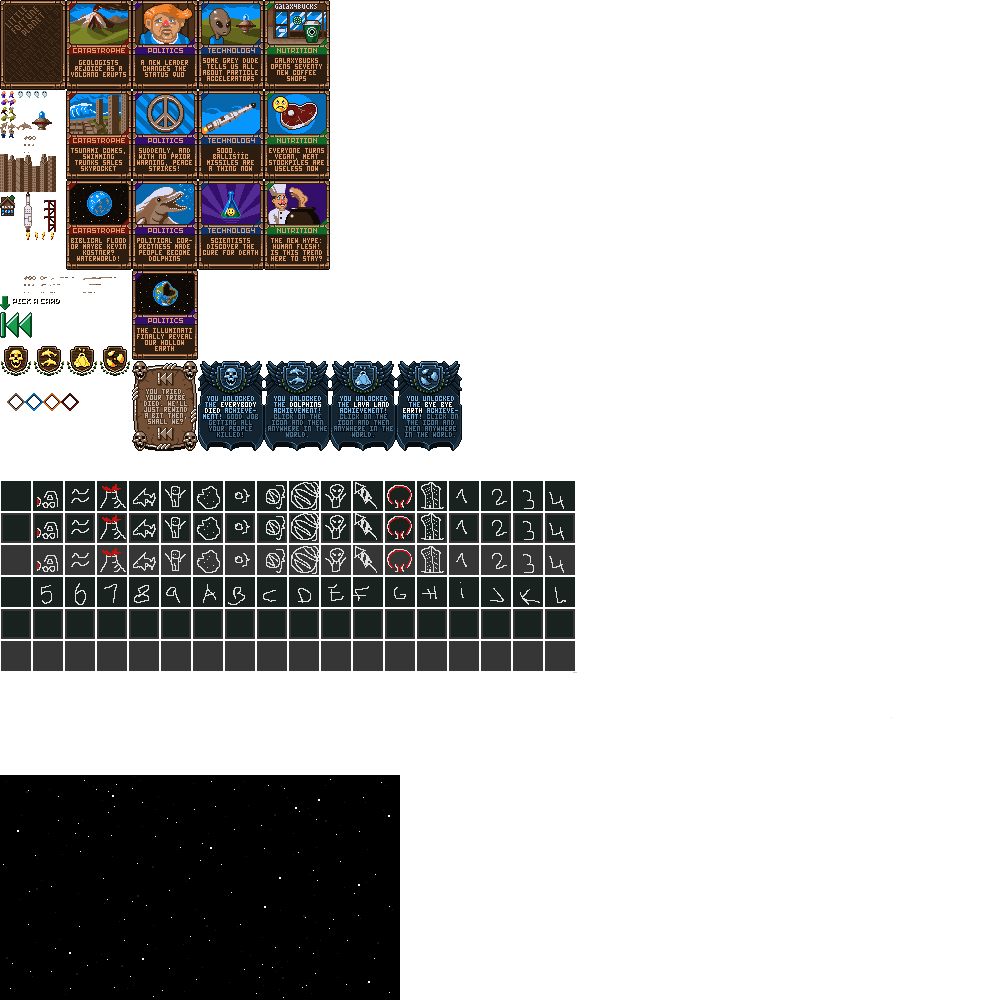
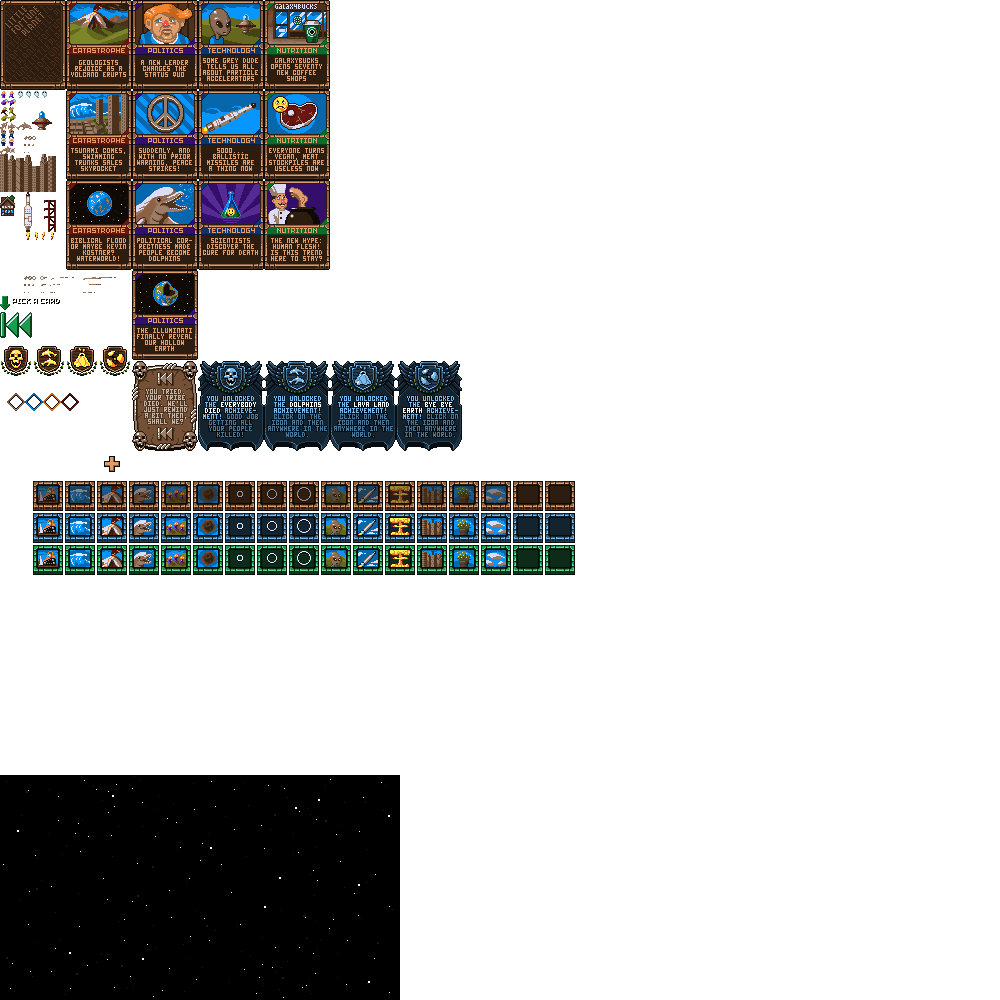
Draw entities one at a time.

Changed region(s): [[0.0, 0.465, 0.589, 0.682], [0.0, 0.124, 0.031, 0.155]]

diff --git a/core/src/net/mostlyoriginal/game/system/DrawingSystem.java b/core/src/net/mostlyoriginal/game/system/DrawingSystem.java
@@ -5,11 +5,14 @@ import com.artemis.E;
 import com.artemis.managers.TagManager;
 import com.badlogic.gdx.Gdx;
 import com.badlogic.gdx.Input;
+import com.badlogic.gdx.math.MathUtils;
 import com.badlogic.gdx.math.Vector2;
 import net.mostlyoriginal.game.component.G;
 import net.mostlyoriginal.game.component.Planet;
 import net.mostlyoriginal.game.component.PlanetCell;
 import net.mostlyoriginal.game.system.common.FluidIteratingSystem;
+import net.mostlyoriginal.game.system.dilemma.CardScriptSystem;
+import net.mostlyoriginal.game.system.planet.PlanetCreationSystem;
 import net.mostlyoriginal.game.system.planet.PlanetRenderGravityDebugSystem;
 import net.mostlyoriginal.game.system.planet.PlanetRenderTemperatureDebugSystem;
 import net.mostlyoriginal.game.system.planet.PlanetSimulationSystem;
@@ -30,18 +33,31 @@ public class DrawingSystem extends FluidIteratingSystem {
     private PlanetRenderGravityDebugSystem planetRenderGravityDebugSystem;
     private PlanetRenderTemperatureDebugSystem planetRenderTemperatureDebugSystem;
     private boolean middleMousePressed;
-    private int size=1;
+    private int size = 1;
+    private EntityType entityType;
+    private CardScriptSystem cardScriptSystem;
+    private PlanetCreationSystem planetCreationSystem;
 
     public DrawingSystem() {
         super(Aspect.all(Planet.class));
     }
 
     private boolean leftMousePressed;
+    private boolean clickedOnce;
+    private int down = 0;
 
     @Override
     protected void begin() {
         super.begin();
         leftMousePressed = Gdx.input.isButtonPressed(Input.Buttons.LEFT);
+        if (leftMousePressed) {
+            down++;
+            clickedOnce = down++ == 1;
+        } else {
+            clickedOnce = false;
+            down = 0;
+        }
+
         rightMousePressed = Gdx.input.isButtonPressed(Input.Buttons.RIGHT);
         middleMousePressed = Gdx.input.isButtonPressed(Input.Buttons.MIDDLE);
 
@@ -83,8 +99,11 @@ public class DrawingSystem extends FluidIteratingSystem {
     @Override
     protected void process(E e) {
         final E cursor = E.E(tagManager.getEntity("cursor"));
-        if (leftMousePressed && type != null) {
+        if (leftMousePressed && type != null && cursor.posY() > G.TOOL_HEIGHT) {
             draw(e, (int) cursor.posX(), (int) cursor.posY(), size, type);
+        }
+        if (clickedOnce && entityType != null&& cursor.posY() > G.TOOL_HEIGHT) {
+            draw((int) cursor.posX(), (int) cursor.posY(), entityType);
         }
         if (rightMousePressed) {
             stopDrawing();
@@ -95,7 +114,35 @@ public class DrawingSystem extends FluidIteratingSystem {
 
     }
 
+    private void draw(int x, int y, EntityType entityType) {
+        switch (entityType) {
+            case ALIEN:
+                planetCreationSystem.spawnDude(x, y).massInverse(true).alien();
+                break;
+            case ICBM:
+                cardScriptSystem.spawnStructure("icbm", G.LAYER_STRUCTURES_FOREGROUND)
+                        .explosiveYield(MathUtils.random(10, 30)).pos(x, y);
+                break;
+            case SKYSCRAPER:
+                cardScriptSystem.spawnStructure("skyscraper" + MathUtils.random(7), G.LAYER_STRUCTURES_BACKGROUND).pos(x, y);
+                break;
+            case DOLPHIN:
+                E e = planetCreationSystem.spawnDude(x, y);
+                Vector2 gravityVector = v.set(e.planetboundGravity()).rotate(180f);
+                e
+                        .dolphinized()
+                        .physicsVr(1000f)
+                        .physicsVx(gravityVector.x * 100f)
+                        .physicsVy(gravityVector.y * 100f);
+                break;
+            case DUDE:
+                planetCreationSystem.spawnDude(x, y);
+                break;
+        }
+    }
+
     private void stopDrawing() {
+        entityType = null;
         type = null;
         removeDrawingCursor();
     }
@@ -129,7 +176,7 @@ public class DrawingSystem extends FluidIteratingSystem {
                     PlanetCell cell = e.getPlanet().get(x, y);
                     if (cell != null) {
                         cell.type = type;
-                        if ( type == PlanetCell.CellType.STATIC ) {
+                        if (type == PlanetCell.CellType.STATIC) {
                             cell.color = planetSimulationSystem.planet.cellColor[PlanetCell.CellType.STATIC.ordinal()];
                         }
                     }
@@ -138,11 +185,22 @@ public class DrawingSystem extends FluidIteratingSystem {
         }
     }
 
-    public void setSize( int size ) {
+    public void setSize(int size) {
         this.size = size;
     }
 
     public int getSize() {
         return size;
+    }
+
+    public void startDrawing(EntityType entityType) {
+        stopDrawing();
+        if (entityType != null) {
+            E.E()
+                    .anim(entityType.name() + "_cursor")
+                    .tag("cursorShade")
+                    .renderLayer(G.LAYER_CURSOR);
+        }
+        this.entityType = entityType;
     }
 }

diff --git a/core/src/net/mostlyoriginal/game/system/ToolSystem.java b/core/src/net/mostlyoriginal/game/system/ToolSystem.java
@@ -112,9 +112,11 @@ public class ToolSystem extends FluidIteratingSystem {
                 else if ("button_water".equals(e.toolId())) type = PlanetCell.CellType.WATER;
                 else if ("button_doze".equals(e.toolId())) type = PlanetCell.CellType.AIR;
                 else if ("button_dolphin".equals(e.toolId())) {
-                    cardScriptSystem.randomizeDolphin();
+                    drawingSystem.startDrawing(EntityType.DOLPHIN);
+                    //cardScriptSystem.randomizeDolphin();
                 } else if ("button_person".equals(e.toolId())) {
-                    cardScriptSystem.spawnDudes();;
+                    drawingSystem.startDrawing(EntityType.DUDE);
+                    //cardScriptSystem.spawnDudes();;
                 } else if ("button_stone".equals(e.toolId())) {
                     type = PlanetCell.CellType.STATIC;
                 } else if ("button_small".equals(e.toolId())) {
@@ -124,13 +126,16 @@ public class ToolSystem extends FluidIteratingSystem {
                 } else if ("button_large".equals(e.toolId())) {
                     drawingSystem.setSize(LARGE_SIZE);
                 } else if ("button_alien".equals(e.toolId())) {
-                    cardScriptSystem.spawnAccelerators();
+                    drawingSystem.startDrawing(EntityType.ALIEN);
+                    //cardScriptSystem.spawnAccelerators();
                 } else if ("button_rocket".equals(e.toolId())) {
-                    cardScriptSystem.spawnIcbms();
+                    drawingSystem.startDrawing(EntityType.ICBM);
+                    //cardScriptSystem.spawnIcbms();
                 } else if ("button_explode".equals(e.toolId())) {
                     cardScriptSystem.triggerExplosives();
                 } else if ("button_building".equals(e.toolId())) {
-                    cardScriptSystem.spawnSkyscrapers();
+                    drawingSystem.startDrawing(EntityType.SKYSCRAPER);
+                    //cardScriptSystem.spawnSkyscrapers();
                 } else if ("button_organic".equals(e.toolId())) {
                     type = PlanetCell.CellType.ORGANIC_SPORE;
                 } else if ("button_clouds".equals(e.toolId())) {

diff --git a/core/src/net/mostlyoriginal/game/system/planet/cells/OrganicSporeCellSimulator.java b/core/src/net/mostlyoriginal/game/system/planet/cells/OrganicSporeCellSimulator.java
@@ -14,6 +14,11 @@ public class OrganicSporeCellSimulator implements CellSimulator {
     @Override
     public void process(CellDecorator c, float delta) {
 
+        if (c.cell.nextType == null) {
+            if (c.getNeighbour(PlanetCell.CellType.FIRE, PlanetCell.CellType.LAVA, PlanetCell.CellType.LAVA_CRUST) != null) {
+                c.cell.nextType = PlanetCell.CellType.FIRE;
+            }
+        }
 
         if (c.cell.nextType == null) {
             // die if no air.
@@ -31,10 +36,6 @@ public class OrganicSporeCellSimulator implements CellSimulator {
             PlanetCell target = c.getRandomNeighbour(PlanetCell.CellType.AIR, 3);
             if (target != null && target.nextType == null && target.type == PlanetCell.CellType.AIR) {
                 c.swapWith(target);
-            }
-
-            if (c.getNeighbour(PlanetCell.CellType.FIRE, PlanetCell.CellType.LAVA, PlanetCell.CellType.LAVA_CRUST) != null) {
-                c.cell.nextType = PlanetCell.CellType.FIRE;
             }
         }
     }

diff --git a/core/src/net/mostlyoriginal/game/system/dilemma/CardScriptSystem.java b/core/src/net/mostlyoriginal/game/system/dilemma/CardScriptSystem.java
@@ -227,7 +227,7 @@ public class CardScriptSystem extends FluidIteratingSystem {
         }
     }
 
-    private E spawnStructure(String id, int layer) {
+    public E spawnStructure(String id, int layer) {
         Vector2 location = planetCreationSystem.getSpawnLocation();
         E e = E.E()
                 .pos(location.x, location.y)

diff --git a/core/src/net/mostlyoriginal/game/system/EntityType.java b/core/src/net/mostlyoriginal/game/system/EntityType.java
@@ -1,0 +1,14 @@
+package net.mostlyoriginal.game.system;
+
+import net.mostlyoriginal.game.component.PlanetCell;
+
+/**
+ * @author Daan van Yperen
+ */
+public enum EntityType {
+    ALIEN,
+    ICBM,
+    SKYSCRAPER,
+    DOLPHIN,
+    DUDE
+}

diff --git a/components/src/net/mostlyoriginal/game/component/G.java b/components/src/net/mostlyoriginal/game/component/G.java
@@ -59,4 +59,5 @@ public class G {
     public static final int PLANET_CENTER_Y = PLANET_Y + (SIMULATION_HEIGHT / 2);
 
     public static final int GRADIENT_SCALE = 5;
+    public static float TOOL_HEIGHT = 50;
 }
